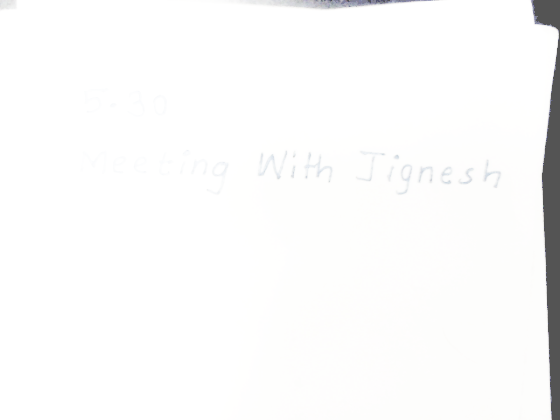
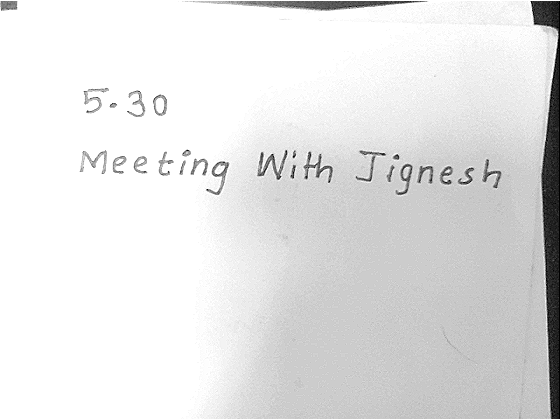
filters

diff --git a/prototype1/code/src/img.pro.server.js b/prototype1/code/src/img.pro.server.js
@@ -1,0 +1,79 @@
+
+var fs = require('fs');
+var path = require('path');
+var gm = require('gm');
+var mime = require('mime');
+var Caman = require('caman').Caman;
+
+var http = require('http').createServer(function (request, response) {
+  console.log('starting request....');
+
+  //set default file location
+  var filePath = '.' + request.url;
+  if(filePath == './') {
+    filePath = './index.html';
+  }
+
+  var fileExt = path.extname(filePath),
+      contentType = 'text/html';
+
+  switch (fileExt) {
+    case '.js':
+        contentType = 'text/javascript';
+        break;
+    case '.css':
+        contentType = 'text/css';
+        break;
+    case '.json':
+        contentType = 'application/json';
+        break;
+    case '.png':
+        contentType = 'image/png';
+        break;
+    case '.jpg':
+        contentType = 'image/jpg';
+        break;
+    case '.wav':
+        contentType = 'audio/wav';
+        break;
+  }
+
+  fs.readFile(filePath, function(error, content) {
+    if (error) {
+        if(error.code == 'ENOENT'){
+            fs.readFile('./404.html', function(error, content) {
+                response.writeHead(200, { 'Content-Type': contentType });
+                response.end(content, 'utf-8');
+            });
+        }
+        else {
+            response.writeHead(500);
+            response.end('Sorry, check with the site admin for error: '+error.code+' ..\n');
+            response.end();
+        }
+    }
+    else {
+        response.writeHead(200, { 'Content-Type': contentType });
+        response.end(content, 'utf-8');
+    }
+  });
+}).listen(7828);
+
+console.log('server is running at http://localhost:7828');
+
+Caman("image.png", function () {
+
+            this.sepia(0);
+            this.exposure(57);
+            this.greyscale();
+            this.noise(0);
+            this.brightness(10);
+            this.contrast(0);
+            this.gamma(2);
+            this.sharpen(100);
+             // this.curves('rgb', [0, 0], [100, 120], [180, 240], [255, 255]);
+            this.render(function () {
+            	console.log('file saved');
+              this.save("./out.png");
+            });
+          });
